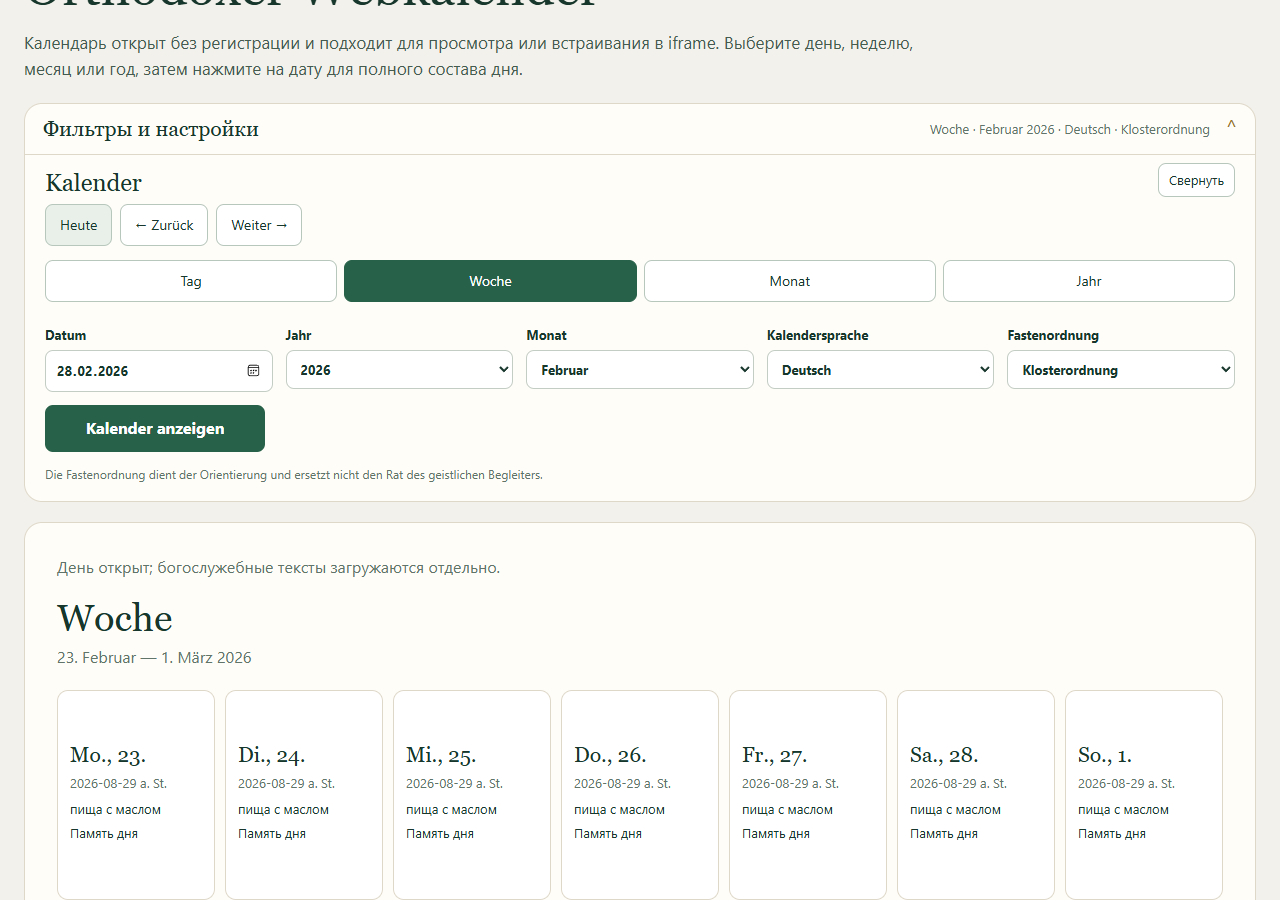
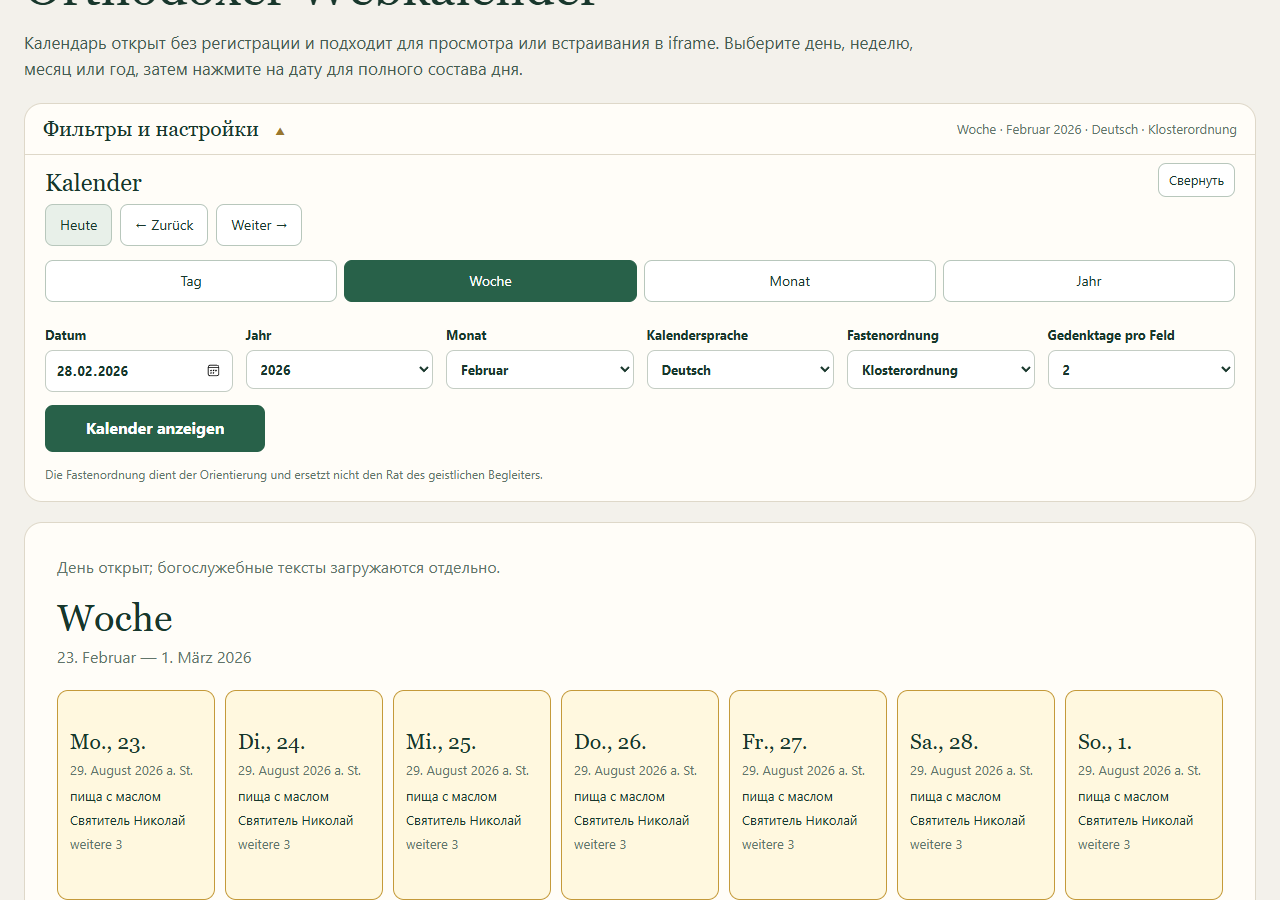
Improve month calendar day cells

diff --git a/public/calendar-ui/web-calendar.js b/public/calendar-ui/web-calendar.js
@@ -4,7 +4,12 @@ import { UI_DE } from './web-calendar-i18n.js';
 const $ = id => document.getElementById(id);
 const MONTHS = ['январь', 'февраль', 'март', 'апрель', 'май', 'июнь', 'июль', 'август', 'сентябрь', 'октябрь', 'ноябрь', 'декабрь'];
 const VIEW_LABELS = { day: 'День', week: 'Неделя', month: 'Месяц', year: 'Год' };
-const state = { view: 'month', date: new Date().toISOString().slice(0, 10), lang: 'ru', profile: 'typikon-strict' };
+function localIsoDate(now = new Date()) {
+  const offset = now.getTimezoneOffset() * 60_000;
+  return new Date(now.getTime() - offset).toISOString().slice(0, 10);
+}
+
+const state = { view: 'month', date: localIsoDate(), lang: 'ru', profile: 'typikon-strict', eventLimit: 3 };
 let slavonicFontUrl = '', slavonicFontFace, loadSequence = 0, daySequence = 0;
 
 for (let year = 1900; year <= 2200; year++) $('year').add(new Option(String(year), String(year)));
@@ -105,6 +110,7 @@ function syncControls() {
   $('month').value = month;
   $('lang').value = state.lang;
   $('profile').value = state.profile;
+  $('event-limit').value = String(state.eventLimit);
   document.querySelectorAll('[data-view]').forEach(button => button.setAttribute('aria-pressed', String(button.dataset.view === state.view)));
   updateFilterSummary();
 }
@@ -118,11 +124,12 @@ function saveLocation() {
 
 function readLocation() {
   const params = new URLSearchParams(location.search);
-  const view = params.get('view'), date = params.get('date'), lang = params.get('lang'), profile = params.get('profile');
+  const view = params.get('view'), date = params.get('date'), lang = params.get('lang'), profile = params.get('profile'), eventLimit = Number(params.get('eventLimit'));
   if (['day', 'week', 'month', 'year'].includes(view)) state.view = view;
   if (/^\d{4}-\d{2}-\d{2}$/.test(date || '')) state.date = date;
   if (['ru', 'cu', 'de', 'uk', 'pl'].includes(lang)) state.lang = lang;
   if (['typikon-strict', 'parish'].includes(profile)) state.profile = profile;
+  if (Number.isInteger(eventLimit) && eventLimit >= 1 && eventLimit <= 5) state.eventLimit = eventLimit;
 }
 
 function weekdayNames() { return Array.from({ length: 7 }, (_, index) => titleDate('2024-01-' + String(index + 1).padStart(2, '0'), { weekday: 'short' }).replace('.', '')); }
@@ -154,6 +161,10 @@ function safeTypikonUrl(source) {
 
 function decorateDayButton(button, day) {
   button.classList.add('day-' + dayEmphasis(day));
+  if (day.date === localIsoDate()) {
+    button.classList.add('is-today');
+    button.setAttribute('aria-current', 'date');
+  }
   const mark = primaryTypikonMark(day);
   if (mark) {
     button.classList.add('has-typikon');
@@ -205,8 +216,11 @@ function dayButton(day) {
   button.append(numberLine, e('div', (displayOldStyleDate(day.oldStyleDate) || '') + ' ' + ui('ст. ст.'), 'old-style'));
   if (hasFast) button.append(food);
   const primary = events.find(event => event.typeCode <= 2) || events[0];
-  if (primary) button.append(e('span', dayDisplayTitle(primary), 'event ' + (primary.typeCode <= 2 ? 'main' : '')));
-  const remaining = events.length - (primary ? 1 : 0);
+  const displayedEvents = primary
+    ? [primary, ...events.filter(event => event !== primary)].slice(0, state.eventLimit)
+    : [];
+  displayedEvents.forEach(event => button.append(e('span', dayDisplayTitle(event), 'event ' + (event.typeCode <= 2 ? 'main' : ''))));
+  const remaining = events.length - displayedEvents.length;
   if (remaining > 0) button.append(e('div', 'ещё ' + remaining, 'more'));
   button.setAttribute('aria-label', [titleDate(day.date), day.foodLabel, ...events.map(event => event.title)].filter(Boolean).join('. '));
   return button;
@@ -221,6 +235,7 @@ function renderMonth(value) {
   weekdayNames().forEach(name => weekdays.append(e('div', name, 'weekday')));
   const days = e('div', '', 'month-grid');
   days.id = 'days';
+  days.style.setProperty('--event-content-height', `${state.eventLimit * 17}px`);
   const first = value.days[0], offset = (Number(first.weekday) + 6) % 7;
   for (let i = 0; i < offset; i++) days.append(e('div', '', 'blank'));
   value.days.forEach(day => days.append(dayButton(day)));
@@ -605,7 +620,7 @@ async function load() {
       if (request !== loadSequence) return;
       renderMonth(value);
     }
-    setStatus('Календарь готов.');
+    setStatus('');
   } catch (error) {
     if (request !== loadSequence) return;
     $('calendar-panel').replaceChildren(e('p', 'Не удалось загрузить календарь: ' + error.message, 'empty'));
@@ -635,13 +650,14 @@ $('query').addEventListener('submit', event => {
   state.date = $('date').value;
   state.lang = $('lang').value;
   state.profile = $('profile').value;
+  state.eventLimit = Number($('event-limit').value);
   void load();
 });
 $('date').addEventListener('change', () => { $('year').value = $('date').value.slice(0, 4); $('month').value = $('date').value.slice(5, 7); });
 $('year').addEventListener('change', () => { $('date').value = $('year').value + '-' + $('month').value + '-01'; });
 $('month').addEventListener('change', () => { $('date').value = $('year').value + '-' + $('month').value + '-01'; });
 document.querySelector('.view-tabs').addEventListener('click', event => { const view = event.target.dataset.view; if (view) { state.view = view; void load(); } });
-$('today').addEventListener('click', () => { state.date = new Date().toISOString().slice(0, 10); void load(); });
+$('today').addEventListener('click', () => { state.date = localIsoDate(); void load(); });
 $('previous').addEventListener('click', () => shift(-1));
 $('next').addEventListener('click', () => shift(1));
 $('close-filters').addEventListener('click', () => { $('filters').open = false; });

diff --git a/public/calendar-ui/web-calendar.css b/public/calendar-ui/web-calendar.css
@@ -38,7 +38,7 @@ main { max-width: 1420px; margin: auto; padding: 28px 24px 64px; }
 .quick button:first-child { background: #e8f0e9; }
 .view-tabs { display: grid; grid-template-columns: repeat(4, minmax(100px, 1fr)); gap: 7px; margin: 10px 0 15px; }
 .view-tabs button[aria-pressed="true"] { border-color: var(--green); background: var(--green); color: #fff; }
-.settings { display: grid; grid-template-columns: repeat(5, minmax(130px, 1fr)); gap: 0 13px; }
+.settings { display: grid; grid-template-columns: repeat(6, minmax(130px, 1fr)); gap: 0 13px; }
 .control { display: block; margin: 8px 0 13px; font-size: 13px; font-weight: 700; }
 .control select, .control input { display: block; width: 100%; margin-top: 5px; padding: 9px 10px; border: 1px solid #c4cdc4; border-radius: 8px; background: #fff; color: var(--ink); }
 .submit { width: 220px; border: 0; border-radius: 8px; padding: 11px; background: var(--green); color: #fff; font-weight: 700; }
@@ -48,6 +48,7 @@ main { max-width: 1420px; margin: auto; padding: 28px 24px 64px; }
 .shell { display: block; }
 .content { min-height: 640px; padding: clamp(18px, 3vw, 32px); }
 .status { min-height: 1.5em; margin: 0 0 16px; color: var(--muted); }
+.status:empty { display: none; }
 .status.error { color: #9c2929; }
 .content-head { display: flex; align-items: start; justify-content: space-between; gap: 16px; margin-bottom: 20px; }
 .content-head h2 { margin: 0; font: 400 clamp(26px, 3vw, 38px)/1.15 Georgia, serif; }
@@ -58,18 +59,20 @@ main { max-width: 1420px; margin: auto; padding: 28px 24px 64px; }
 .weekday, .blank, .day { min-width: 88px; border-right: 1px solid var(--line); border-bottom: 1px solid var(--line); }
 .weekday { padding: 9px; background: #f7f4eb; color: var(--muted); font-size: 12px; font-weight: 700; text-align: center; }
 .blank { background: #fbfaf6; }
-.day { min-height: 136px; padding: 8px; border-top: 0; border-left: 0; border-radius: 0; background: var(--paper); color: var(--ink); text-align: left; }
+.day { min-height: calc(104px + var(--event-content-height, 51px)); padding: 8px; border-top: 0; border-left: 0; border-radius: 0; background: var(--paper); color: var(--ink); text-align: left; }
 .day:hover, .day:focus-visible { outline: 3px solid #d6b66b; outline-offset: -3px; background: #fff8e8; }
 .day.day-pascha { background: #fff0df; box-shadow: inset 0 4px #b64a36; }
 .day.day-great { background: #fff8df; box-shadow: inset 0 4px #c49a3a; }
 .day.day-medium { background: #fffdf0; box-shadow: inset 0 3px #d8bd70; }
 .day.day-sunday { background: #f5faf5; }
+.day.is-today, .week-day.is-today, .mini-days button.is-today { position: relative; z-index: 1; outline: 2px solid #237455; outline-offset: -3px; }
+.day.is-today:hover, .day.is-today:focus-visible, .week-day.is-today:hover, .week-day.is-today:focus-visible, .mini-days button.is-today:hover, .mini-days button.is-today:focus-visible { outline-color: #0f5d3f; }
 .day.day-pascha .day-number, .day.day-great .day-number { color: #9c3027; font-weight: 700; }
 .day-number-line { display: flex; align-items: center; gap: 6px; min-height: 25px; }
 .typikon-marker { width: 18px; height: 18px; object-fit: contain; }
 .day-number { font: 400 21px Georgia, serif; }
 .old-style { color: var(--muted); font-size: 10px; }
-.food { display: flex; align-items: center; min-height: 17px; margin: 4px 0; color: var(--muted); font-size: 11px; }
+.food { display: flex; align-items: center; min-height: 17px; margin: 4px 0; color: #76611f; font-size: 11px; font-weight: 500; }
 .food.has-fast::before { content: ""; display: inline-block; width: 8px; height: 8px; margin-right: 5px; border-radius: 50%; background: var(--fast-color, var(--gold)); box-shadow: 0 0 0 2px #fff, 0 0 0 3px var(--fast-color, var(--gold)); }
 .event { display: -webkit-box; overflow: hidden; margin-top: 3px; font-size: 12px; line-height: 1.2; -webkit-box-orient: vertical; -webkit-line-clamp: 1; }
 .event.main { font-weight: 700; }

diff --git a/public/calendar-ui/web-calendar-i18n.js b/public/calendar-ui/web-calendar-i18n.js
@@ -14,12 +14,12 @@ export const UI_DE = {
     "Дата": "Datum",
     "Язык календаря": "Kalendersprache",
     "Профиль поста": "Fastenordnung",
+    "Памятей в ячейке": "Gedenktage pro Feld",
     "Строгий устав": "Klosterordnung",
     "Приходская практика": "Gemeindepraxis",
     "Показать календарь": "Kalender anzeigen",
     "Календарь открыт без регистрации и подходит для обычного просмотра или встраивания в iframe. Выберите день, неделю, месяц или год; нажмите на дату, чтобы открыть полный состав дня.": "Der Kalender ist ohne Anmeldung nutzbar und lässt sich als iframe einbetten. Wählen Sie einen Tag, eine Woche, einen Monat oder ein Jahr. Ein Klick auf das Datum öffnet die Tagesansicht.",
     "Профиль поста показывает справочную календарную норму и не заменяет совет духовника.": "Die Fastenordnung dient der Orientierung und ersetzt nicht den Rat des geistlichen Begleiters.",
-    "Календарь готов.": "Kalender geladen.",
     "Данные дня получены.": "Tagesdaten geladen.",
     "Загружаю календарь…": "Kalender wird geladen…",
     "Загружаю полный состав дня…": "Tagesdaten werden geladen…",

diff --git a/public/web-calendar.html b/public/web-calendar.html
@@ -26,6 +26,7 @@
           <label class="control">Месяц<select id="month" aria-label="Месяц"></select></label>
           <label class="control">Язык календаря<select id="lang"><option value="ru">Русский</option><option value="cu">Церковнославянский</option><option value="de">Deutsch</option><option value="uk">Українська</option><option value="pl">Polski</option></select></label>
           <label class="control">Профиль поста<select id="profile"><option value="typikon-strict">Строгий устав</option><option value="parish">Приходская практика</option></select></label>
+          <label class="control">Памятей в ячейке<select id="event-limit"><option value="1">1</option><option value="2">2</option><option value="3">3</option><option value="4">4</option><option value="5">5</option></select></label>
         </div>
         <button class="submit" id="submit">Показать календарь</button>
       </form>

diff --git a/PROJECT_STATUS.md b/PROJECT_STATUS.md
@@ -28,6 +28,7 @@
 - Веб-календарь получает полный каталог икон Bible Desktop по `month_day` (`MM-DD`), показывает компактные миниатюры перед разделом «Святые и праздники», а имена святых остаются обычным текстом без лишних ссылок. Описание выбранного образа открывается первой карточкой модального просмотра, после него стрелки, свайп и клавиатура показывают только изображения этого образа.
 - WordPress-плагин 1.3.50 получает полный каталог икон дня и все изображения каждого образа, соблюдает настройку `icon_limit` с приоритетом Богородицы/Христа, затем великих, средних и малых праздников; модальное окно начинается описанием выбранного образа и навигирует только по его изображениям.
 - Веб-календарь исправляет повторное отображение старой картинки при открытии нового образа, загружает церковнославянский шрифт для кириллических названий и размещает стрелку фильтров сразу после заголовка. Ячейки Пасхи и великих/средних праздников подсвечиваются, показывают знак Типикона, а дни без поста не занимают пустую строку.
+- Веб-календарь отмечает текущую дату зелёной рамкой во всех представлениях. В месяце показывается от одной до пяти памятей по выбору пользователя (по умолчанию три); настройка сохраняется в URL. Пост выделен заметнее, а служебная надпись «Календарь готов.» после загрузки убрана.
 
 ## Текущее состояние и решения
 
@@ -79,5 +80,6 @@
 - Для WordPress-плагина 1.3.50 прошли полный тест WordPress/SQLite + Edge (22 режима, API и кэш медиа, лимиты и модальное окно иконок), PHP lint, `node --check` календарного JS, сборка ZIP через `--publish-downloads` и `git diff --check`.
 - Для версии 1.3.51 прошли PHP lint, `node --check` календарного JS, сборка ZIP через `--publish-downloads` и `git diff --check`; миниатюры икон проверены в CSS на 70px.
 - Для текущих изменений веб-календаря прошли `scripts/test-web-calendar.mjs`, `node --check public/calendar-ui/web-calendar.js`, `npm test` (71 файл, 525 тестов) и `git diff --check`; браузер проверил смену образа, шрифт, стрелку фильтров, подсветку Пасхи/Типикона и отсутствие строки поста без поста.
+- Для настройки месячных ячеек прошли `node --check public/calendar-ui/web-calendar.js`, `node --check scripts/test-web-calendar.mjs`, `scripts/test-web-calendar.mjs` и `git diff --check`. Браузерный тест проверил выбор лимита, три памяти по умолчанию, отметку текущего дня и отсутствие служебного статуса.
 
 Последние связанные commits: Bible Desktop `44db40a Normalize Pravmir UCS text`; Kalendar `877e08c Release WordPress plugin 1.3.51`.
